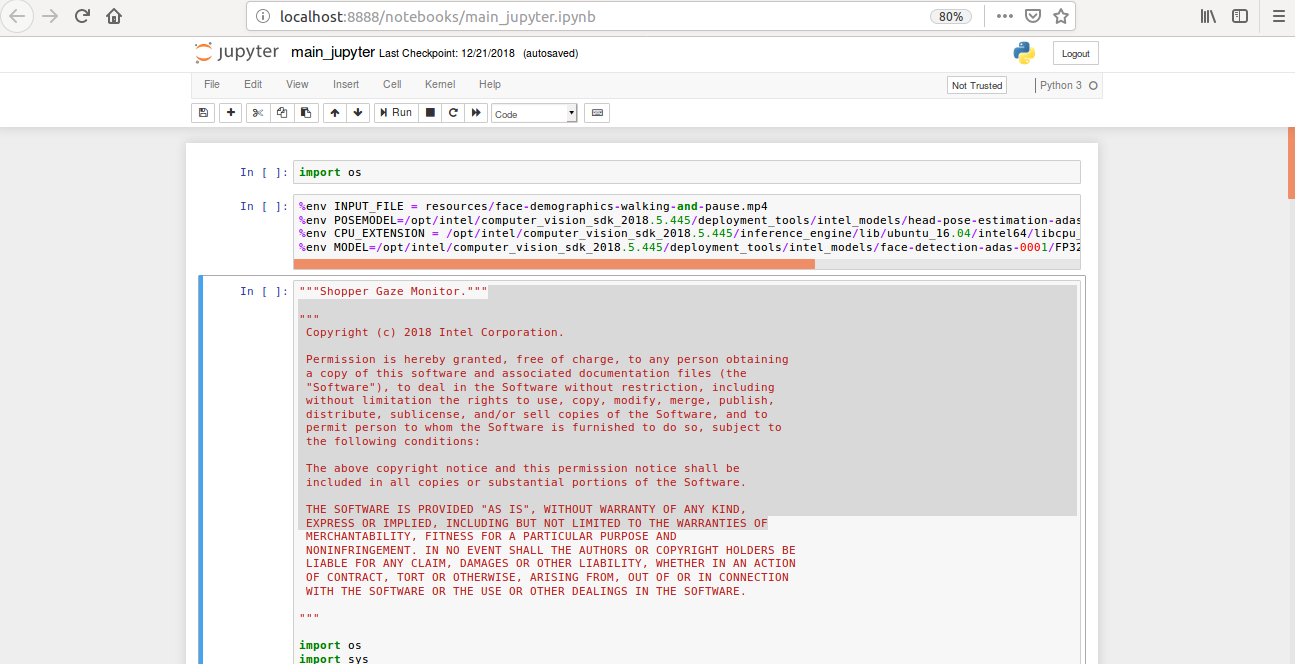
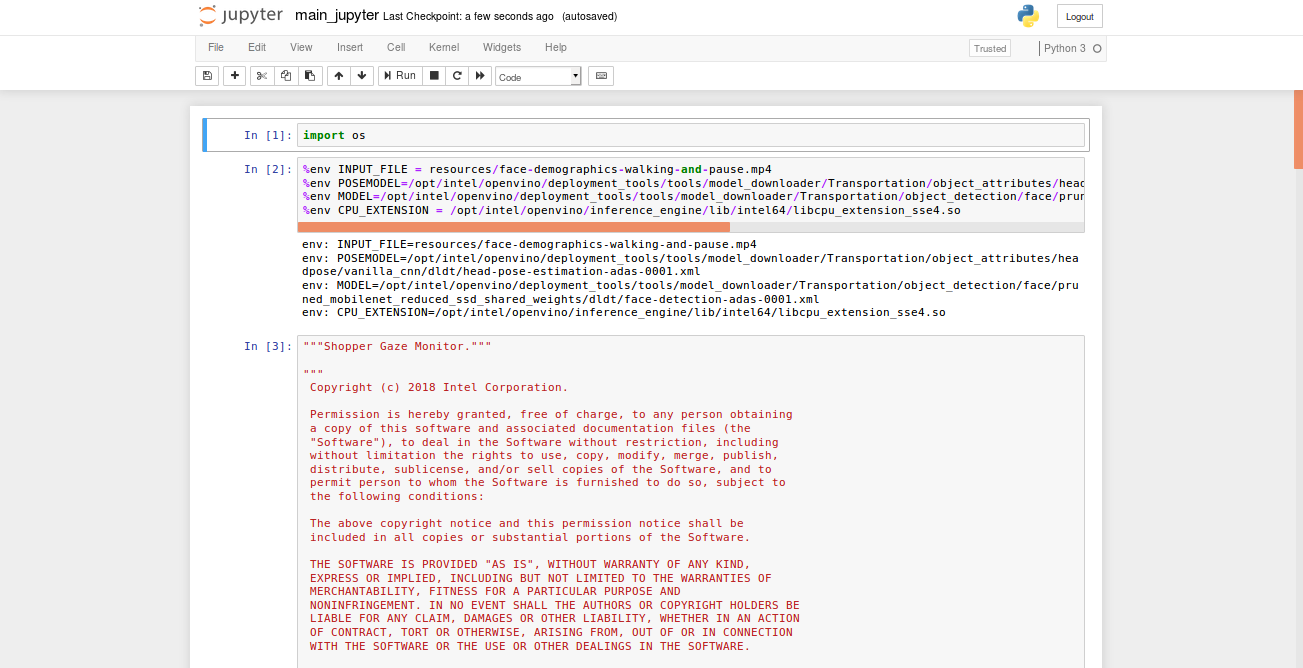
Update to R1

diff --git a/main.py b/main.py
@@ -72,8 +72,8 @@ def args_parser():
                         "path to a shared library with the kernels impl.")
     parser.add_argument("-d", "--device", default="CPU", type=str,
                         help="Specify the target device to infer on; "
-                        "CPU, GPU, FPGA or MYRIAD is acceptable. Looks"
-                        "for a suitable plugin for device specified"
+                        "CPU, GPU, FPGA, HDDL or MYRIAD is acceptable. Application "
+                        "will look for a suitable plugin for device specified"
                         "(CPU by default)")
     parser.add_argument("-c", "--confidence", default=0.5, type=float,
                         help="Probability threshold for detections filtering")

diff --git a/README.md b/README.md
@@ -24,11 +24,6 @@ A second neural network is then used to determine the head pose detection for ea
 
 The shopper and looker data are sent to a local web server using the Paho* MQTT C client libraries.
 
-The DNN model used in this application is an Intel® optimized model that is part of the Intel® Distribution of OpenVINO™ toolkit. You can find it here:
-
-  * /opt/intel/computer_vision_sdk/deployment_tools/intel_models/face-detection-adas-0001
-  * /opt/intel/computer_vision_sdk/deployment_tools/intel_models/head-pose-estimation-adas-0001
-
 ![images](./images/arch_diagram.png)
 
 The program creates two threads for concurrency:
@@ -51,9 +46,9 @@ The program creates two threads for concurrency:
 
   **Note:** We recommend using a 4.14+ kernel to use this software. Run the following command to determine your kernel version:
 
-	```uname -a```
+      uname -a
   
-* Intel® Distribution of OpenVINO™ toolkit 2018 R5 release
+* Intel® Distribution of OpenVINO™ toolkit 2019 R1 Release
 
 ## Setup
 
@@ -64,99 +59,140 @@ Refer to https://software.intel.com/en-us/articles/OpenVINO-Install-Linux for mo
 You will need the OpenCL™ Runtime package if you plan to run inference on the GPU. It is not mandatory for CPU inference.
 
 ### Install Python* dependencies
+ 
+    sudo apt install python3-pip
 
-```sudo apt install python3-pip```
+    sudo apt-get install mosquitto mosquitto-clients
 
-```sudo apt-get install mosquitto mosquitto-clients```
+    pip3 install jupyter
 
-```pip3 install jupyter ```
+    pip3 install numpy
 
-```pip3 install numpy```
+    pip3 install paho-mqtt
 
-```pip3 install paho-mqtt```
+## Download the model
+
+This application uses the **face-detection-adas-0001** and **head-pose-estimation-adas-0001** Intel® model, that can be downloaded using the **model downloader**. The **model downloader** downloads the __.xml__ and __.bin__ files that is used by the application. 
+
+Steps to download **.xml** and **.bin** files:
+
+- Go to the **model_downloader** directory using following command: 
+    ```
+    cd /opt/intel/openvino/deployment_tools/tools/model_downloader
+    ```
+- Specify which model to download with --name:
+
+    ```
+    sudo ./downloader.py --name face-detection-adas-0001
+    sudo ./downloader.py --name head-pose-estimation-adas-0001
+    ```
+- To download the model for FP16, run the following commands:
+
+    ```
+    sudo ./downloader.py --name face-detection-adas-0001-fp16
+    sudo ./downloader.py --name head-pose-estimation-adas-0001-fp16
+    ```
+The files will be downloaded inside the following directories:
+ -   ``/opt/intel/openvino/deployment_tools/tools/model_downloader/Transportation/object_detection/face/pruned_mobilenet_reduced_ssd_shared_weights/dldt/    ``     
+ -   ``/opt/intel/openvino/deployment_tools/tools/model_downloader/Transportation/object_attributes/headpose/vanilla_cnn/dldt/`` 
 
 ## Setting the Build Environment
 
 You must configure the environment to use the Intel® Distribution of OpenVINO™ toolkit one time per session by running the following command:
-
- ```source /opt/intel/computer_vision_sdk/bin/setupvars.sh -pyver 3.5```
-	
+    
+    source /opt/intel/openvino/bin/setupvars.sh -pyver 3.5
 
 ## Run the application
 
 Go to `shopper-gaze-monitor-python` directory:
-
-```cd <path-to-shopper-gaze-monitor-python-directory>```
-
+    
+    cd <path-to-shopper-gaze-monitor-python-directory>
+    
 To see a list of the various options:
 
-```python3 main.py --help```
-
+    python3 main.py --help
+ 
 ### Sample Video
 
 You can download sample video by running following commands.	
 
-```
-mkdir resources
-cd resources
-wget https://github.com/intel-iot-devkit/sample-videos/raw/master/face-demographics-walking-and-pause.mp4 
-wget https://github.com/intel-iot-devkit/sample-videos/raw/master/face-demographics-walking.mp4 
-wget https://github.com/intel-iot-devkit/sample-videos/blob/master/head-pose-face-detection-female.mp4 	
-cd .. 
-```
-
+    mkdir resources
+    cd resources
+    wget https://github.com/intel-iot-devkit/sample-videos/raw/master/face-demographics-walking-and-pause.mp4 
+    wget https://github.com/intel-iot-devkit/sample-videos/raw/master/face-demographics-walking.mp4 
+    wget https://github.com/intel-iot-devkit/sample-videos/blob/master/head-pose-face-detection-female.mp4 	
+    cd .. 
 
 ### Running on the CPU
 
 When running Intel® Distribution of OpenVINO™ toolkit Python applications on the CPU, the CPU extension library is required. This can be found at 
-```/opt/intel/computer_vision_sdk/deployment_tools/inference_engine/lib/ubuntu_16.04/intel64/``` after building the OpenVINO examples.
+
+    /opt/intel/openvino/deployment_tools/inference_engine/lib/intel64/
 
 Though by default the application runs on CPU, this can also be explicitly specified by -d CPU command-line argument:
 
-	python3 main.py -m /opt/intel/computer_vision_sdk/deployment_tools/intel_models/face-detection-adas-0001/FP32/face-detection-adas-0001.xml -pm /opt/intel/computer_vision_sdk/deployment_tools/intel_models/head-pose-estimation-adas-0001/FP32/head-pose-estimation-adas-0001.xml -l /opt/intel/computer_vision_sdk/inference_engine/lib/ubuntu_16.04/intel64/libcpu_extension_sse4.so -d CPU -i resources/face-demographics-walking-and-pause.mp4
+	python3 main.py -m /opt/intel/openvino/deployment_tools/tools/model_downloader/Transportation/object_detection/face/pruned_mobilenet_reduced_ssd_shared_weights/dldt/face-detection-adas-0001.xml -pm /opt/intel/openvino/deployment_tools/tools/model_downloader/Transportation/object_attributes/headpose/vanilla_cnn/dldt/head-pose-estimation-adas-0001.xml -l /opt/intel/openvino/inference_engine/lib/intel64/libcpu_extension_sse4.so -d CPU -i resources/face-demographics-walking-and-pause.mp4
 
 **Note**: To get the input video from the camera, use -i cam command-line argument. For example:
 
-	python3 main.py -m /opt/intel/computer_vision_sdk/deployment_tools/intel_models/face-detection-adas-0001/FP32/face-detection-adas-0001.xml -pm /opt/intel/computer_vision_sdk/deployment_tools/intel_models/head-pose-estimation-adas-0001/FP32/head-pose-estimation-adas-0001.xml -l /opt/intel/computer_vision_sdk/inference_engine/lib/ubuntu_16.04/intel64/libcpu_extension_sse4.so -i cam
+	python3 main.py -m /opt/intel/openvino/deployment_tools/tools/model_downloader/Transportation/object_detection/face/pruned_mobilenet_reduced_ssd_shared_weights/dldt/face-detection-adas-0001.xml -pm /opt/intel/openvino/deployment_tools/tools/model_downloader/Transportation/object_attributes/headpose/vanilla_cnn/dldt/head-pose-estimation-adas-0001.xml -l /opt/intel/openvino/inference_engine/lib/intel64/libcpu_extension_sse4.so -i cam
 
 
 ### Running on the GPU
 
 To run on the integrated Intel® GPU in 32 bit mode, use the -d GPU command-line argument:
 
-	python3 main.py -m /opt/intel/computer_vision_sdk/deployment_tools/intel_models/face-detection-adas-0001/FP32/face-detection-adas-0001.xml -pm /opt/intel/computer_vision_sdk/deployment_tools/intel_models/head-pose-estimation-adas-0001/FP32/head-pose-estimation-adas-0001.xml -i resources/face-demographics-walking-and-pause.mp4 -d GPU
+	python3 main.py -m /opt/intel/openvino/deployment_tools/tools/model_downloader/Transportation/object_detection/face/pruned_mobilenet_reduced_ssd_shared_weights/dldt/face-detection-adas-0001.xml -pm /opt/intel/openvino/deployment_tools/tools/model_downloader/Transportation/object_attributes/headpose/vanilla_cnn/dldt/head-pose-estimation-adas-0001.xml -i resources/face-demographics-walking-and-pause.mp4 -d GPU
 
 To use GPU in 16 bit mode, use the following command:
 
-	python3 main.py -m /opt/intel/computer_vision_sdk/deployment_tools/intel_models/face-detection-adas-0001/FP16/face-detection-adas-0001.xml -pm /opt/intel/computer_vision_sdk/deployment_tools/intel_models/head-pose-estimation-adas-0001/FP16/head-pose-estimation-adas-0001.xml -i resources/face-demographics-walking-and-pause.mp4 -d GPU
-
-**Note**: To get the input video from the camera, use -i cam command-line argument. For example:
-
-	python3 main.py -m /opt/intel/computer_vision_sdk/deployment_tools/intel_models/face-detection-adas-0001/FP32/face-detection-adas-0001.xml -pm /opt/intel/computer_vision_sdk/deployment_tools/intel_models/head-pose-estimation-adas-0001/FP32/head-pose-estimation-adas-0001.xml -i cam -d GPU
-
+	python3 main.py -m /opt/intel/openvino/deployment_tools/tools/model_downloader/Transportation/object_detection/face/pruned_mobilenet_reduced_ssd_shared_weights/dldt/face-detection-adas-0001-fp16.xml -pm /opt/intel/openvino/deployment_tools/tools/model_downloader/Transportation/object_attributes/headpose/vanilla_cnn/dldt/head-pose-estimation-adas-0001-fp16.xml -i resources/face-demographics-walking-and-pause.mp4 -d GPU
 
 ### Running on the Intel® Neural Compute Stick
 To run on the Intel® Neural Compute Stick, use the ```-d MYRIAD``` command-line argument:
-```
-python3 main.py -d MYRIAD -m /opt/intel/computer_vision_sdk/deployment_tools/intel_models/face-detection-adas-0001/FP16/face-detection-adas-0001.xml -pm /opt/intel/computer_vision_sdk/deployment_tools/intel_models/head-pose-estimation-adas-0001/FP16/head-pose-estimation-adas-0001.xml -i resources/face-demographics-walking-and-pause.mp4
-```
+
+    python3 main.py -d MYRIAD -m /opt/intel/openvino/deployment_tools/tools/model_downloader/Transportation/object_detection/face/pruned_mobilenet_reduced_ssd_shared_weights/dldt/face-detection-adas-0001-fp16.xml -pm /opt/intel/openvino/deployment_tools/tools/model_downloader/Transportation/object_attributes/headpose/vanilla_cnn/dldt/head-pose-estimation-adas-0001-fp16.xml -i resources/face-demographics-walking-and-pause.mp4
+
 **Note:** The Intel® Neural Compute Stick can only run FP16 models. The model that is passed to the application, through the `-m <path_to_model>` command-line argument, must be of data type FP16.
-  
+
+### Running on the HDDL
+To run on the HDDL-R, use the `-d HETERO:HDDL,CPU ` command-line argument:
+
+    python3 main.py -m /opt/intel/openvino/deployment_tools/tools/model_downloader/Transportation/object_detection/face/pruned_mobilenet_reduced_ssd_shared_weights/dldt/face-detection-adas-0001-fp16.xml -pm /opt/intel/openvino/deployment_tools/tools/model_downloader/Transportation/object_attributes/headpose/vanilla_cnn/dldt/head-pose-estimation-adas-0001-fp16.xml -l /opt/intel/openvino/inference_engine/lib/intel64/libcpu_extension_sse4.so -i resources/face-demographics-walking-and-pause.mp4 -d HETERO:HDDL,CPU
+
+**Note:** The HDDL-R can only run FP16 models. The model that is passed to the application, through the `-m <path_to_model>` command-line argument, must be of data type FP16.
+
+### Running on the FPGA
+
+Before running the application on the FPGA,  program the AOCX (bitstream) file. Use the setup_env.sh script from [fpga_support_files.tgz](https://clicktime.symantec.com/38YrYPLxxSqYhBQLb1eruhW7Vc?u=http%3A%2F%2Fregistrationcenter-download.intel.com%2Fakdlm%2Firc_nas%2F12954%2Ffpga_support_files.tgz) to set the environment variables.<br>
+For example:
+
+    source /home/<user>/Downloads/fpga_support_files/setup_env.sh
+
+The bitstreams for HDDL-F can be found under the `/opt/intel/openvino/bitstreams/a10_vision_design_bitstreams` folder.<br><br>To program the bitstream use the below command:<br>
+
+    aocl program acl0 /opt/intel/openvino/bitstreams/a10_vision_design_bitstreams/2019R1_PL1_FP11_MobileNet_Clamp.aocx
+
+For more information on programming the bitstreams, please refer to https://software.intel.com/en-us/articles/OpenVINO-Install-Linux-FPGA#inpage-nav-11
+
+To run the application on the FPGA with floating point precision 16 (FP16), use the `-d HETERO:FPGA,CPU` command-line argument:
+
+    python3 main.py -m /opt/intel/openvino/deployment_tools/tools/model_downloader/Transportation/object_detection/face/pruned_mobilenet_reduced_ssd_shared_weights/dldt/face-detection-adas-0001-fp16.xml -pm /opt/intel/openvino/deployment_tools/tools/model_downloader/Transportation/object_attributes/headpose/vanilla_cnn/dldt/head-pose-estimation-adas-0001-fp16.xml -l /opt/intel/openvino/inference_engine/lib/intel64/libcpu_extension_sse4.so -i resources/face-demographics-walking-and-pause.mp4 -d HETERO:FPGA,CPU
 
 # Machine to machine messaging with MQTT
 
 If you wish to use a MQTT server to publish data, you should set the following environment variables on the terminal before running the program.
  
-   ```export MQTT_SERVER=localhost:1883```
+    export MQTT_SERVER=localhost:1883
  
-   ```export MQTT_CLIENT_ID=cvservice```
+    export MQTT_CLIENT_ID=cvservice
 
 Change the MQTT_SERVER to a value that matches the MQTT server you are connecting to.
 
 You should change the MQTT_CLIENT_ID to a unique value for each monitoring station, so you can track the data for individual locations. For example:
 
-   ```export MQTT_CLIENT_ID=zone1337```
+    export MQTT_CLIENT_ID=zone1337
 
 If you want to monitor the MQTT messages sent to your local server, and you have the mosquitto client utilities installed, you can run the following command in new terminal while executing the code:
 
-   ```mosquitto_sub -h localhost -t shopper_gaze_monitor```
+    mosquitto_sub -h localhost -t shopper_gaze_monitor
